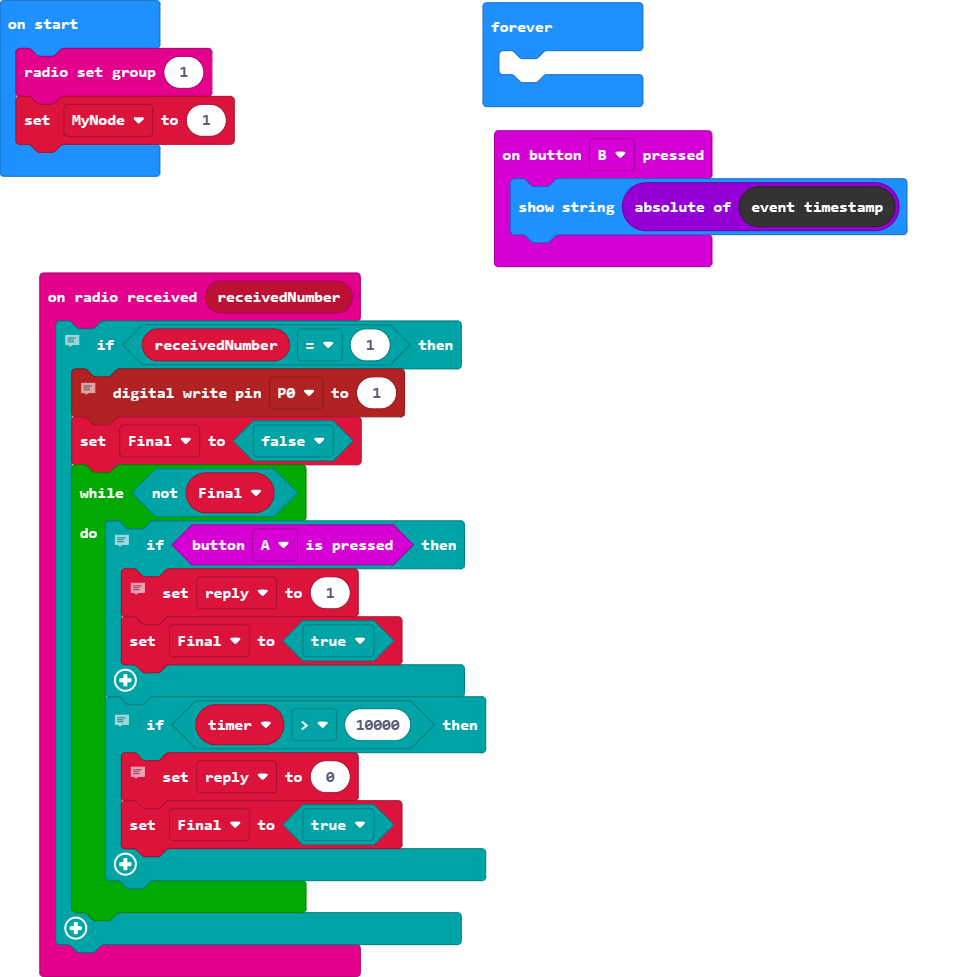
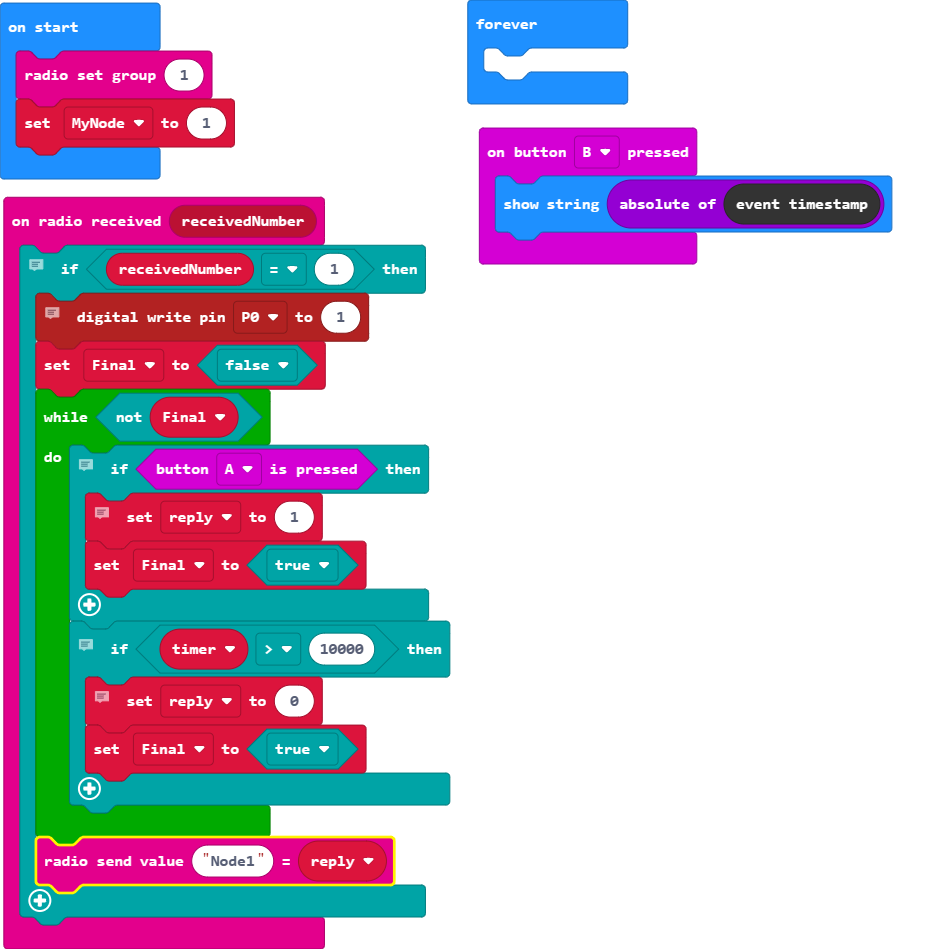
Update main.blocks, main.ts

diff --git a/main.ts b/main.ts
@@ -19,6 +19,7 @@ radio.onReceivedNumber(function (receivedNumber) {
                 Final = true
             }
         }
+        radio.sendValue("Node1", reply)
     }
 })
 input.onButtonPressed(Button.B, function () {
